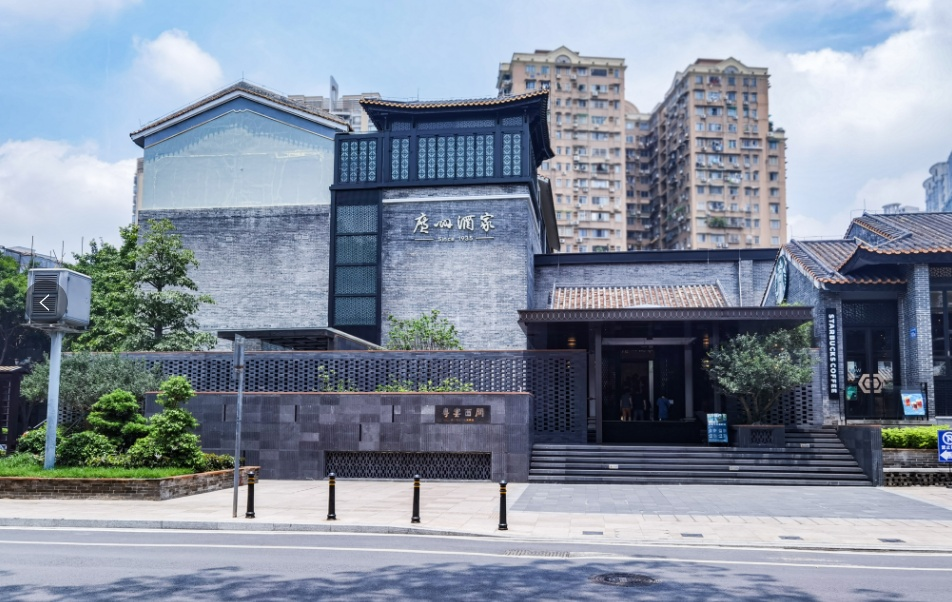
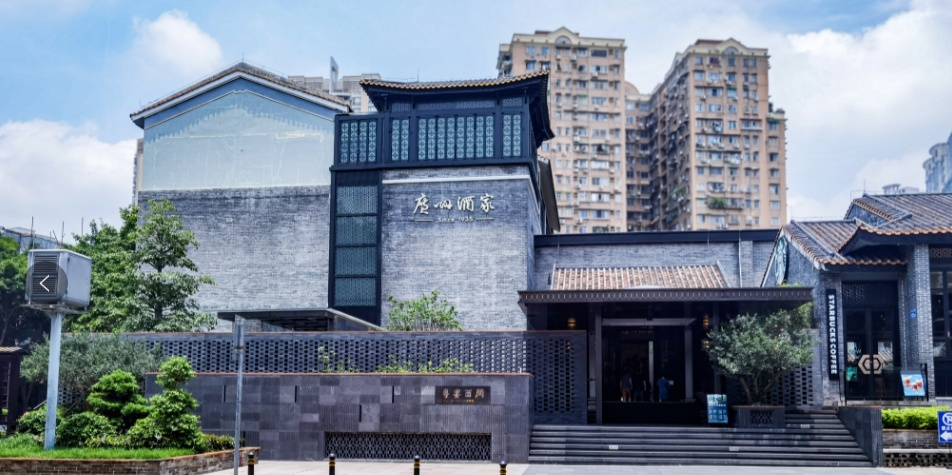
feat(dining): update Guangzhou Restaurant with 3 verified ambience photos, official site button, and maps navigation link

diff --git a/app.js b/app.js
@@ -315,6 +315,8 @@ function loadRestaurants() {
               ...item,
               name: defaultItem.name || item.name,
               address: defaultItem.address || item.address,
+              mapUrl: defaultItem.mapUrl || item.mapUrl,
+              officialUrl: defaultItem.officialUrl || item.officialUrl,
               cuisine: defaultItem.cuisine || item.cuisine,
               dishes: defaultItem.dishes || item.dishes,
               notes: defaultItem.notes || item.notes,
@@ -419,7 +421,14 @@ function renderRestaurants(cityFilter = 'all') {
               ${r.address ? `
                 <div class="text-slate-400 flex items-start gap-1.5 text-[11px]">
                   <i class="fa-solid fa-location-dot mt-0.5 text-yellow-400 shrink-0"></i>
-                  <span class="line-clamp-1">${r.address}</span>
+                  ${r.mapUrl ? `
+                    <a href="${r.mapUrl}" target="_blank" rel="noopener noreferrer" onclick="event.stopPropagation()" class="hover:text-amber-300 hover:underline line-clamp-1 transition flex items-center gap-1">
+                      <span>${r.address}</span>
+                      <i class="fa-solid fa-arrow-up-right-from-square text-[9px] text-amber-400/80"></i>
+                    </a>
+                  ` : `
+                    <span class="line-clamp-1">${r.address}</span>
+                  `}
                 </div>
               ` : ''}
             </div>
@@ -448,9 +457,15 @@ function renderRestaurants(cityFilter = 'all') {
               <button onclick="copyToClipboard('${r.name} ${r.address || ''}')" class="text-slate-400 hover:text-white flex items-center gap-1.5 transition text-[11px] font-bold">
                 <i class="fa-regular fa-copy"></i> Copy Details
               </button>
-              <span class="text-emerald-400 font-bold text-[10px] flex items-center gap-1">
-                <i class="fa-solid fa-check"></i> Verified Spot
-              </span>
+              ${r.officialUrl ? `
+                <a href="${r.officialUrl}" target="_blank" rel="noopener noreferrer" onclick="event.stopPropagation()" class="px-2.5 py-1 rounded-lg bg-emerald-500/20 hover:bg-emerald-500/30 text-emerald-300 border border-emerald-500/40 font-bold text-[10px] flex items-center gap-1.5 transition">
+                  <i class="fa-solid fa-globe"></i> Official Site
+                </a>
+              ` : `
+                <span class="text-emerald-400 font-bold text-[10px] flex items-center gap-1">
+                  <i class="fa-solid fa-check"></i> Verified Spot
+                </span>
+              `}
             </div>
           </div>
         </div>

diff --git a/china-data.js b/china-data.js
@@ -441,6 +441,8 @@ const defaultRestaurants = [
         highlights: ["🥟 鲜虾饺皇", "🥢 爽脆红米肠", "🍗 姜茸爽皮鸡"],
         dishes: "穗城鲜虾饺皇, 爽脆红米肠, 金丝姜茸爽皮鸡",
         address: "📍 No. 102 Longjin West Road, Liwan District (荔湾区龙津西路102号，荔枝湾畔)",
+        mapUrl: "https://www.google.com/maps/search/?api=1&query=广州市荔湾区龙津西路102号+广州酒家",
+        officialUrl: "https://www.gzr.com.cn/pinpaijiazu/guangzhoujiujia/2473.html",
         price: "$$$",
         schedule: "⏰ 08:00—14:00 (Breakfast / Morning Tea)",
         coverImage: "media/dining/guangzhou_restaurant/facade.jpg",
@@ -453,16 +455,16 @@ const defaultRestaurants = [
             image: "media/dining/guangzhou_restaurant/facade.jpg"
           },
           {
-            title: "西关荔枝湾畔 · 岭南园林庭院与多彩满洲窗 (粤宴西关)",
+            title: "岭南水乡庭院 · 锦鲤水景与水榭飞檐",
             type: "interior",
-            desc: "岭南园林庭院、锦鲤水景与传统多彩满洲窗，交相辉映，营造雍容典雅的广府园林风致。",
-            image: "media/dining/guangzhou_restaurant/courtyard.jpg"
+            desc: "传统广府园林水系，飞檐亭阁倒映碧波，锦鲤环绕，凸显老字号水乡闲趣。",
+            image: "media/dining/guangzhou_restaurant/interior_courtyard.jpg"
           },
           {
-            title: "精致宴会空间与水榭包房 (粤韵芳渡 · 兰桂轩)",
+            title: "精致宴会空间 · 多彩满洲窗 (粤宴西关)",
             type: "interior",
-            desc: "内设粤韵芳渡、兰桂轩、听月阁四大空间，融合广绣与西关石拱门，打造沉浸式广式茶宴空间。",
-            image: "media/dining/guangzhou_restaurant/dining_hall.jpg"
+            desc: "内设粤韵芳渡、兰桂轩、听月阁四大空间，饰以全套传统彩色满洲窗与广式木雕，尽显雍容广府茶宴格调。",
+            image: "media/dining/guangzhou_restaurant/interior_dining.jpg"
           }
         ],
         menu: [
